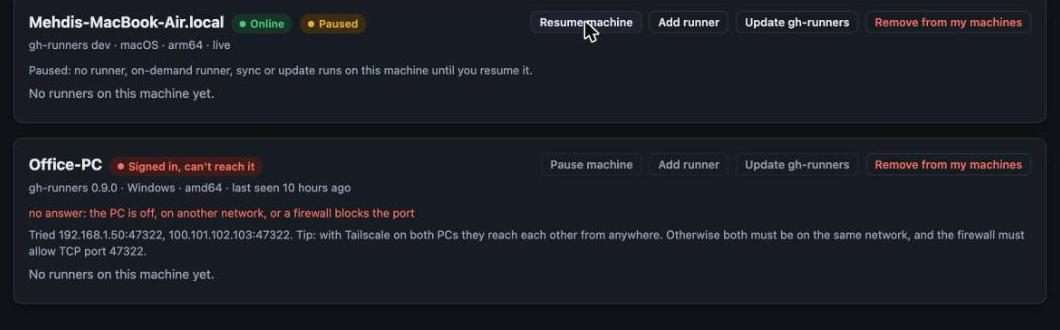
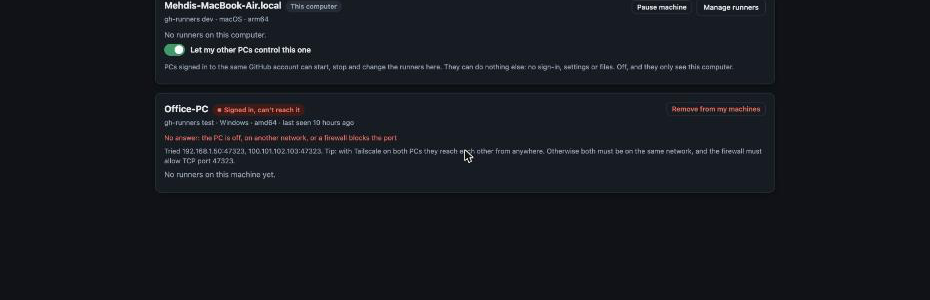
Account machines: hide controls on unreachable PCs, tests never use the real account, drop stale entries
Before: an unreachable PC showed Pause, Add runner and Update buttons that could only fail; daemon tests picked up the developer's gh login and published fake machines to the real account; a wiped PC stayed listed forever.
Now: an unreachable PC shows only Remove; daemon tests run with no GitHub token at all (GH_RUNNERS_NO_GH_CLI); entries not updated for two weeks are removed by the other machines; connection errors start with a capital.

diff --git a/internal/web/assets/app.js b/internal/web/assets/app.js
@@ -1442,10 +1442,12 @@ function machineCard(m) {
         h('div', { class: 'muted small' }, ['gh-runners ' + (info.version || '?'), osName(info.os) + (info.arch ? ' · ' + info.arch : ''),
           m.online ? 'live' : (m.last_seen ? 'last seen ' + ago(m.last_seen) : 'never connected')].join(' · '))),
       h('div', { class: 'row' },
-        btn(info.paused ? 'Resume machine' : 'Pause machine', () => setPaused(m, !info.paused)),
+        // A machine that can't be reached can't take any of these, so only
+        // Remove stays.
+        off ? null : btn(info.paused ? 'Resume machine' : 'Pause machine', () => setPaused(m, !info.paused)),
         (info.paused || off) ? null : (info.runners || []).some((r) => r.state === 'stopped') ? [btn('Run what was on before it closed', () => startSet(m, 'last')), btn('Run all', () => startSet(m, 'all'))] : null,
-        btn('Add runner', () => addToMachine(m)),
-        btn('Update gh-runners', () => updateMachine(m)),
+        off ? null : btn('Add runner', () => addToMachine(m)),
+        off ? null : btn('Update gh-runners', () => updateMachine(m)),
         (S.fleet.can_manage || m.id === 'host') ? null : h('button', { class: 'btn small danger', onclick: () => removeMachine(m) }, m.peer ? 'Remove from my machines' : 'Remove machine'))),
     S.fleet.main_host && m.id !== 'host' && !m.peer ? h('div', { class: 'manage-switch' },
       sw(!!m.manage, (on) => setManage(m, on), 'Can manage the fleet'),

diff --git a/internal/fleet/peer.go b/internal/fleet/peer.go
@@ -712,26 +712,26 @@ func plainErr(err error) string {
 	case err == nil:
 		return ""
 	case errors.Is(err, ErrFingerprint):
-		return "something else answered at its address (its certificate does not match the directory)"
+		return "Something else answered at its address (its certificate does not match the directory)"
 	case errors.Is(err, syscall.ECONNREFUSED):
-		return "connection refused: gh-runners is not running there, or a firewall blocks the port"
+		return "Connection refused: gh-runners is not running there, or a firewall blocks the port"
 	case errors.Is(err, context.DeadlineExceeded), errors.Is(err, os.ErrDeadlineExceeded):
-		return "no answer: the PC is off, on another network, or a firewall blocks the port"
+		return "No answer: the PC is off, on another network, or a firewall blocks the port"
 	}
 	var ne net.Error
 	if errors.As(err, &ne) && ne.Timeout() {
-		return "no answer: the PC is off, on another network, or a firewall blocks the port"
+		return "No answer: the PC is off, on another network, or a firewall blocks the port"
 	}
 	msg := err.Error()
 	switch {
 	case strings.Contains(msg, "bad certificate"), strings.Contains(msg, "certificate required"):
-		return "it did not accept this PC's certificate (it may not have seen this PC in the directory yet)"
+		return "It did not accept this PC's certificate (it may not have seen this PC in the directory yet)"
 	case strings.Contains(msg, "i/o timeout"), strings.Contains(msg, "timed out"):
-		return "no answer: the PC is off, on another network, or a firewall blocks the port"
+		return "No answer: the PC is off, on another network, or a firewall blocks the port"
 	case strings.Contains(msg, "refused"):
-		return "connection refused: gh-runners is not running there, or a firewall blocks the port"
+		return "Connection refused: gh-runners is not running there, or a firewall blocks the port"
 	case strings.Contains(msg, "no route"), strings.Contains(msg, "unreachable"):
-		return "no route to it: it is on another network"
+		return "No route to it: it is on another network"
 	}
 	if i := strings.LastIndex(msg, "\n"); i >= 0 {
 		msg = msg[i+1:]

diff --git a/internal/fleet/peer_test.go b/internal/fleet/peer_test.go
@@ -407,11 +407,39 @@ func TestPeerUnreachable(t *testing.T) {
 		return false
 	})
 	for _, p := range a.Peers.Peers() {
-		if !strings.Contains(p.Error, "connection refused") {
+		if !strings.Contains(p.Error, "Connection refused") {
 			t.Fatalf("error in plain words: %q", p.Error)
 		}
 	}
 	if _, _, err := a.Call(context.Background(), "ffffffffffffffff", "GET", "/api/state", nil); err != ErrOffline {
 		t.Fatalf("call to unreachable: %v", err)
+	}
+}
+
+// A machine that has not updated its entry for StaleAfter is removed from the
+// directory; a fresh one and this machine itself stay.
+func TestDirectoryDropsStale(t *testing.T) {
+	g := newFakeGH(t)
+	d := &Directory{Dir: t.TempDir(), Client: g.client}
+	d.Self = func() Entry {
+		return Entry{Name: "mac", Addrs: []string{"10.0.0.2"}, Port: 47323, Fingerprint: strings.Repeat("ab", 32)}
+	}
+	ctx := context.Background()
+	if err := d.Publish(ctx); err != nil {
+		t.Fatal(err)
+	}
+	entry := func(id string, at time.Time) string {
+		return `{"id":"` + id + `","name":"pc","addrs":["10.0.0.3"],"port":47323,"fingerprint":"` + strings.Repeat("cd", 32) + `","updated":"` + at.UTC().Format(time.RFC3339) + `"}`
+	}
+	g.mu.Lock()
+	g.files["machines/0000000000000001.json"] = entry("0000000000000001", time.Now().Add(-StaleAfter-time.Hour))
+	g.files["machines/0000000000000002.json"] = entry("0000000000000002", time.Now().Add(-time.Hour))
+	g.mu.Unlock()
+	es, err := d.List(ctx)
+	if err != nil || len(es) != 2 {
+		t.Fatalf("List: %v %+v", err, es)
+	}
+	if g.has("machines/0000000000000001.json") || !g.has("machines/0000000000000002.json") {
+		t.Fatal("stale entry kept or fresh one removed")
 	}
 }

diff --git a/internal/fleet/directory.go b/internal/fleet/directory.go
@@ -131,6 +131,10 @@ func (d *Directory) ready(ctx context.Context) (*github.Client, string, error) {
 	return c, u.Login, nil
 }
 
+// StaleAfter is how long a machine may go without updating its entry before
+// the others remove it.
+var StaleAfter = 14 * 24 * time.Hour
+
 func entryPath(id string) string { return "machines/" + id + ".json" }
 
 var idRe = regexp.MustCompile(`^[0-9a-f]{8,64}$`)
@@ -213,9 +217,20 @@ func (d *Directory) List(ctx context.Context) ([]Entry, error) {
 			}
 		}
 		next[id] = ce
-		if ce.ok {
-			out = append(out, ce.entry)
+		if !ce.ok {
+			continue
 		}
+		// A running machine rewrites its file every few minutes, so one
+		// untouched for StaleAfter is gone (reinstalled, wiped, retired):
+		// drop it rather than list a ghost forever.
+		if self, _ := d.ID(); id != self && !ce.entry.Updated.IsZero() && time.Since(ce.entry.Updated) > StaleAfter {
+			if err := c.DeleteContents(ctx, owner, DirectoryRepo, f.Path, "gh-runners: remove "+ce.entry.Name+" (not seen for two weeks)", f.SHA); err != nil {
+				d.logf("directory: removing stale %s: %v", f.Path, err)
+			}
+			delete(next, id)
+			continue
+		}
+		out = append(out, ce.entry)
 	}
 	d.mu.Lock()
 	d.cache = next

diff --git a/internal/github/client.go b/internal/github/client.go
@@ -79,7 +79,8 @@ type TokenSource struct {
 
 // ResolveToken finds a token: GH_RUNNERS_TOKEN, GH_TOKEN, GITHUB_TOKEN, then
 // the token saved by `gh-runners login` or the dashboard's sign-in
-// (savedPath), then `gh auth token`.
+// (savedPath), then `gh auth token` unless GH_RUNNERS_NO_GH_CLI is set (tests
+// set it so they never pick up the developer's real account).
 func ResolveToken(savedPath string) (TokenSource, error) {
 	for _, env := range []string{"GH_RUNNERS_TOKEN", "GH_TOKEN", "GITHUB_TOKEN"} {
 		if v := strings.TrimSpace(os.Getenv(env)); v != "" {
@@ -93,7 +94,7 @@ func ResolveToken(savedPath string) (TokenSource, error) {
 			}
 		}
 	}
-	if gh, err := exec.LookPath("gh"); err == nil {
+	if gh, err := exec.LookPath("gh"); err == nil && os.Getenv("GH_RUNNERS_NO_GH_CLI") == "" {
 		cmd := exec.Command(gh, "auth", "token", "--hostname", "github.com")
 		hideWindow(cmd)
 		out, err := cmd.Output()

diff --git a/internal/daemon/pause_test.go b/internal/daemon/pause_test.go
@@ -50,6 +50,12 @@ func TestMain(m *testing.M) {
 		time.Sleep(time.Minute)
 		os.Exit(0)
 	}
+	// Daemons started here must never reach the developer's real GitHub
+	// account (they would publish themselves to its machine directory).
+	for _, k := range []string{"GH_RUNNERS_TOKEN", "GH_TOKEN", "GITHUB_TOKEN"} {
+		os.Unsetenv(k)
+	}
+	os.Setenv("GH_RUNNERS_NO_GH_CLI", "1")
 	os.Exit(m.Run())
 }
 
